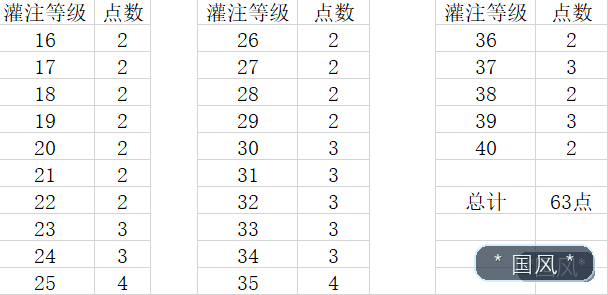
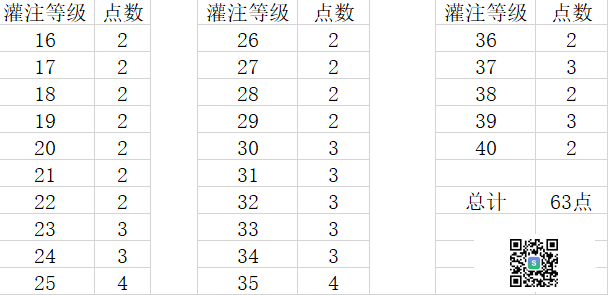
Update guide image watermarks

Changed region(s): [[0.7812, 0.7932, 1.0, 0.9763]]

diff --git a/flipgame/GuideImages.html b/flipgame/GuideImages.html
@@ -154,12 +154,17 @@
       align-items: flex-start;
       justify-content: center;
       overflow: auto;
-      padding: 0;
+      padding: 28px;
     }
     .image-overlay.is-open { display: flex; }
+    #overlayImages {
+      width: max-content;
+      max-width: none;
+      margin: 0 auto;
+    }
     .image-overlay img {
-      width: 100vw;
-      max-width: 100vw;
+      width: auto;
+      max-width: none;
       height: auto;
       display: block;
     }
@@ -180,6 +185,7 @@
       nav#topbar-nav { position: static; align-self: flex-end; margin: 8px 8px 0 auto; }
       nav#topbar-nav a { padding: 8px 12px; font-size: 13px; }
       .wrap { padding-top: 16px; }
+      .image-overlay { padding: 16px; }
     }
   </style>
 </head>

diff --git a/docs/guide-images.md b/docs/guide-images.md
@@ -8,19 +8,20 @@
 - 攻略图统一放在 `flipgame/images/`。
 - 页面内卡片手动维护标题、图片路径和描述。
 - 图片页面文案包含：`部分图片收集于网络，公众号。特此感谢作者！`
-- 部分图片已加 `国风` 水印。
+- 部分图片已加站内二维码角标。
 
 ## 打开图片
 
-- Web 模式：点击攻略图打开单独图片查看页或窗口。
-- App/PWA 模式：避免跳出到外部 Chrome，尽量在当前 app 内全屏查看。
+- Web 模式：点击攻略图在站内弹层查看图片。
+- App/PWA 模式：避免跳出到外部 Chrome，在当前 app 内用站内弹层查看。
+- 弹层里的图片按原图自然尺寸显示，不强制铺满屏幕；图片大于视口时由弹层提供滚动。
 
 ## 新增图片流程
 
 1. 把图片放入 `flipgame/images/`。
 2. 在 `GuideImages.html` 中新增卡片数据。
 3. 标题使用中文主标题，并维护英文翻译。
-4. 如需统一风格，给新增图片加 `国风` 水印。
+4. 如需统一风格，给新增图片加站内二维码角标。
 5. 本地 server 打开攻略页面验证图片路径大小写。
 
 ## 命名建议
